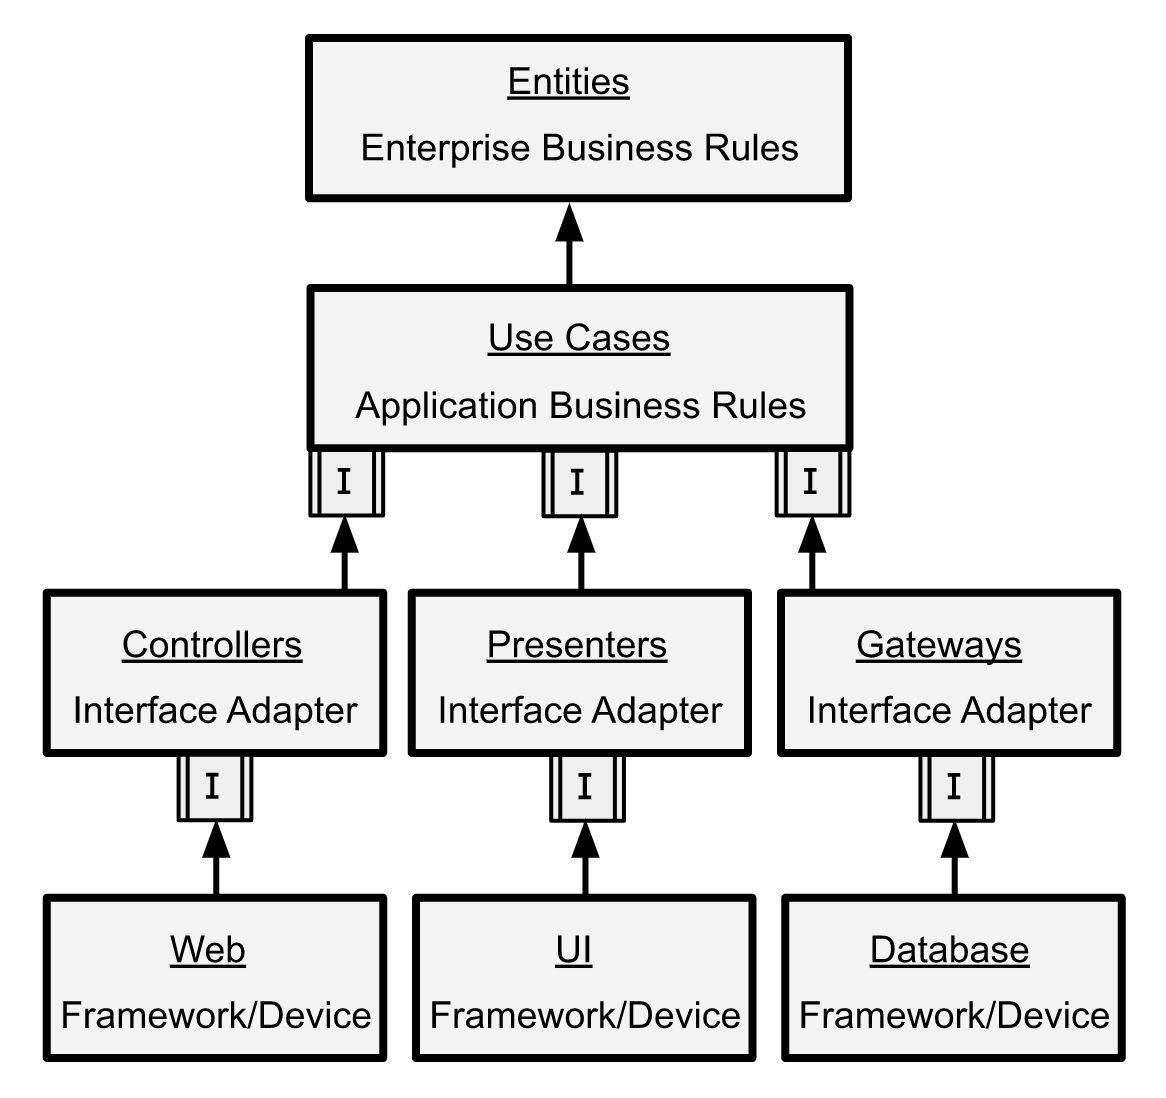
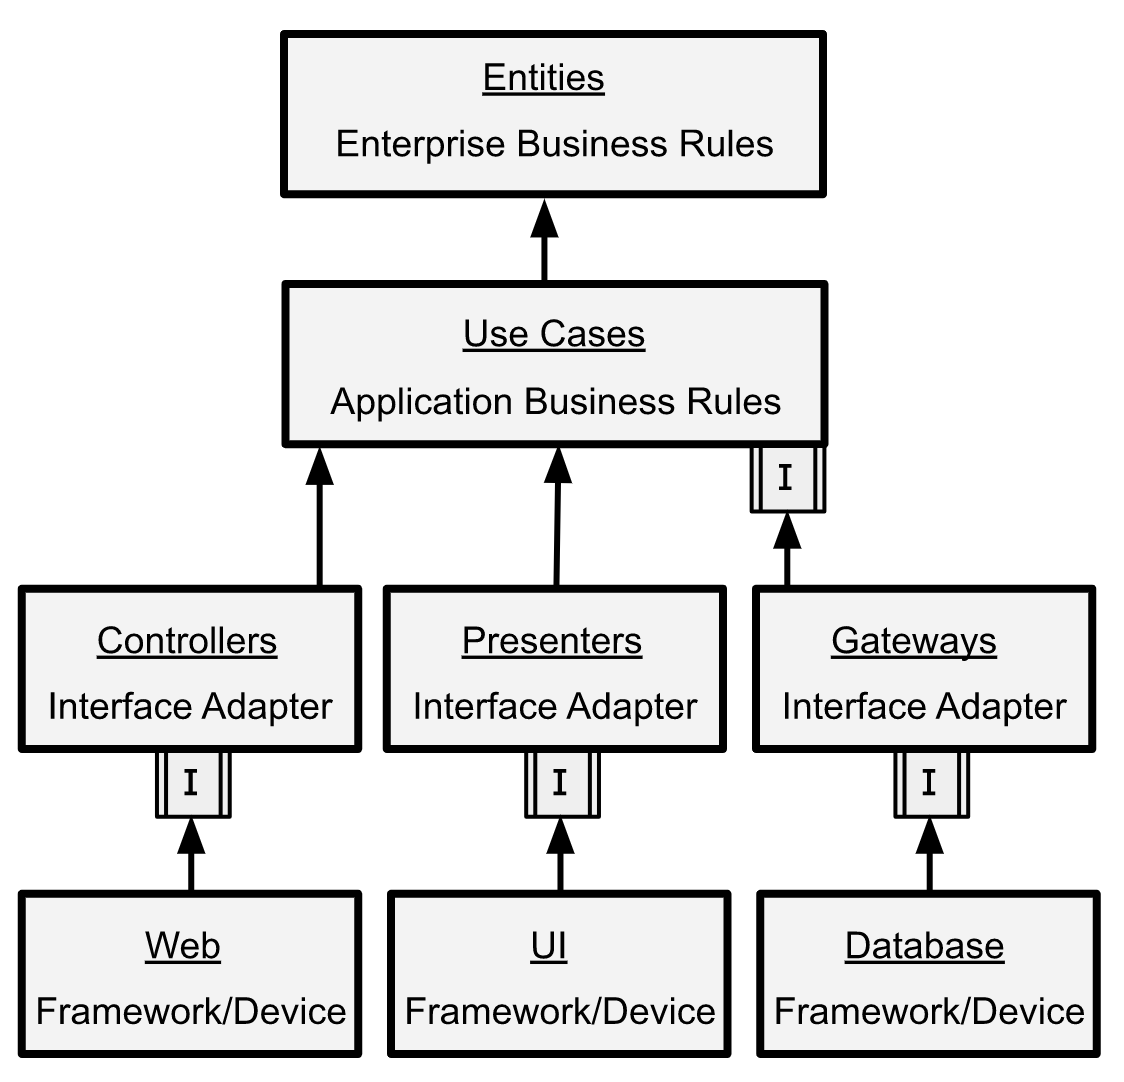
update

diff --git a/architecture/clean-architecture/README.md b/architecture/clean-architecture/README.md
@@ -3,7 +3,7 @@
 - [The Clean Architecture from The Clean Code Blog](https://blog.cleancoder.com/uncle-bob/2012/08/13/the-clean-architecture.html)
 - [The Clean Architecture 翻訳](https://blog.tai2.net/the_clean_architecture.html)
 
-![clean architecture](../../images/clean-architecture.jpg 'clean architecture')
+![clean architecture](../../images/clean-architecture-origin.jpg 'clean architecture')
 
 `依存性のルール`として、`ソースコードは、内側に向かってのみ依存することができる`
 
@@ -70,17 +70,16 @@
 
 ## 図解による依存関係の整理
 
+- `Application Business Rules(UseCases)`レイヤー及び、`Interface Adapter` レイヤーは抽象に依存することで、`依存関係逆転の法則(DIP)`によって`依存性のルール`を満たす
+<img src="https://raw.githubusercontent.com/hiromaily/documents/main/images/clean-architecture1.png"  width="50%" height="50%">
+
+- 実際にコードを書くことによって見えたことだが、システムの起点となる Handler を持つ`WebFramework`だったり、`UI`は`依存関係逆転の法則(DIP)`によって`UseCases`に依存する必要はなく、直接`UseCases`に依存することができる。ただそのコンポーネントが存在するかどうかのみで、WebFramework や UI は変更可能であり、入力の数に制限はない(CUI も GUI も備えるシステムでもよい)
 <img src="https://raw.githubusercontent.com/hiromaily/documents/main/images/clean-architecture2.png"  width="50%" height="50%">
 
-`Application Business Rules(UseCases)`レイヤー及び、`Interface Adapter` レイヤーは抽象に依存することで、`依存関係逆転の法則(DIP)`によって`依存性のルール`を満たす
+- 個人的な解釈だが、DeviceにはAdapterが必要なく、`依存関係逆転の法則(DIP)`によってUseCasesに直接依存可能なケースも存在する。これはUseCasesのためにデータの最適化が不要な場合がこれに該当する
+<img src="https://raw.githubusercontent.com/hiromaily/documents/main/images/clean-architecture3.png"  width="60%" height="60%">
 
-<img src="https://raw.githubusercontent.com/hiromaily/documents/main/images/clean-architecture3.png"  width="50%" height="50%">
-
-実際にコードを書くことによって見えたことだが、システムの起点となる Handler を持つ`WebFramework`だったり、`UI`は`依存関係逆転の法則(DIP)`によって`UseCases`に依存する必要はなく、直接`UseCases`に依存することができる。ただそのコンポーネントが存在するかどうかのみで、WebFramework や UI は変更可能であり、入力の数に制限はない(CUI も GUI も備えるシステムでもよい)
-
-<img src="https://raw.githubusercontent.com/hiromaily/documents/main/images/clean-architecture4.png"  width="60%" height="60%">
-
-個人的な解釈だが、DeviceにはAdapterが必要なく、`依存関係逆転の法則(DIP)`によってUseCasesに直接依存可能なケースも存在する。これはUseCasesのためにデータの最適化が不要な場合がこれに該当する。
+- 例えば、Databaseの場合、使用するDatabaseのデータを変換するための専用のAdapterが存在するケースがほとんどで`Interface Adapter`と`Framework/Device`の間にInterfaceは不要なケースがほとんどだが、Interfaceが存在しないと`依存性のルール`を満たすことができない。これを満たすためだけに対となる`Interface Adapter`と`Framework/Device`の間にInterfaceを用意するのは不毛と感じる。
 
 ## 考察
 
